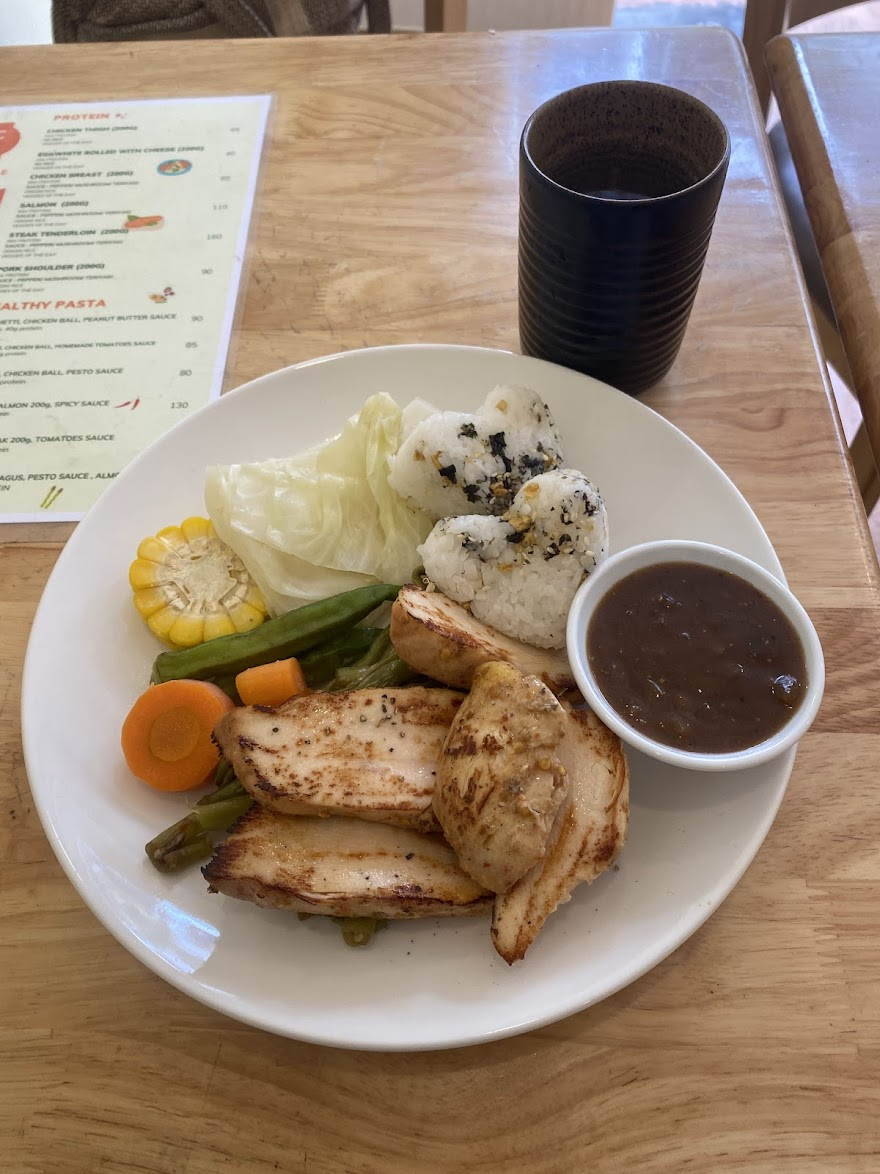
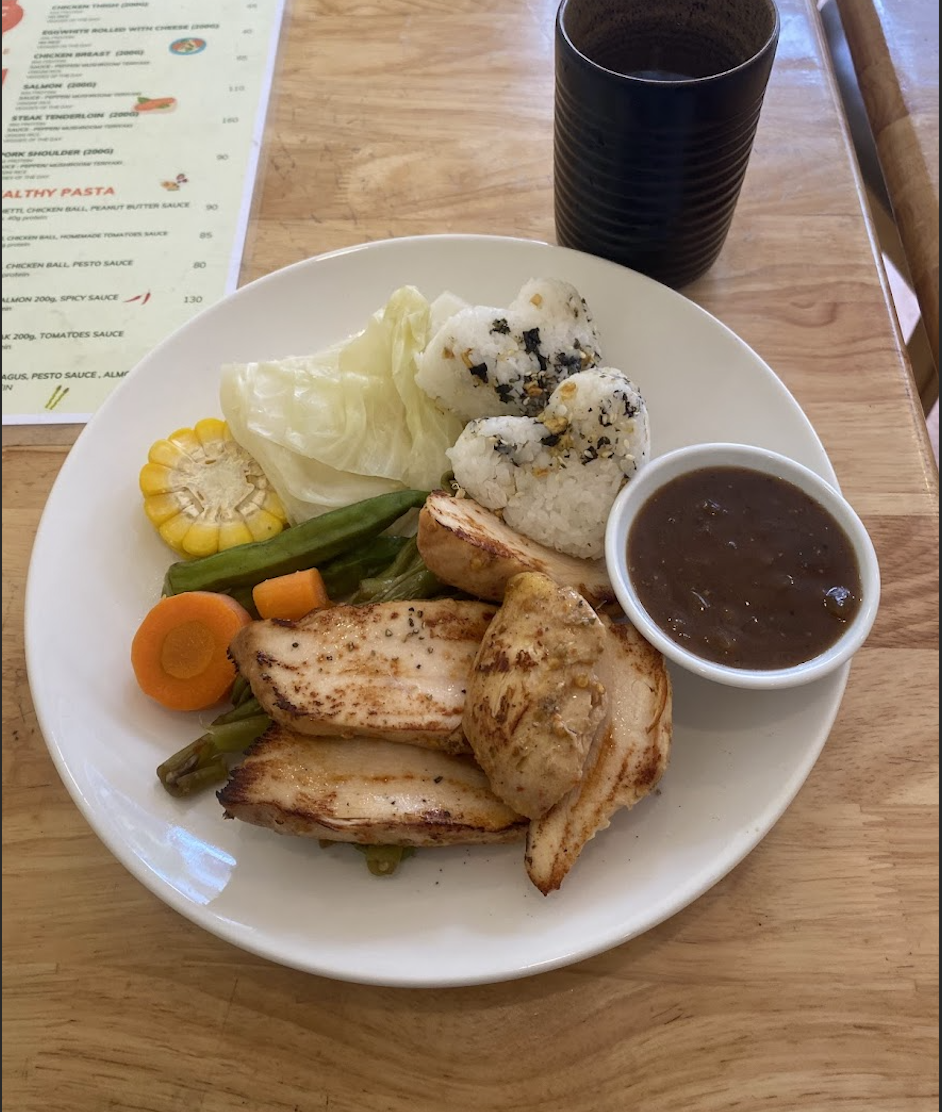
Fix mobile language switcher visibility + update images
Language switcher was hidden on mobile and only appeared at a fixed
bottom position when the nav was open — completely undiscoverable.
Now always visible in the header next to the hamburger button,
with compact button sizing (7px padding, 0.68rem font).

Also: update food1.jpg, add 1pasta.jpg + pastapesto.jpg, remove food2.jpg.

diff --git a/index.html b/index.html
@@ -76,7 +76,8 @@
             <p class="hero-eyebrow" data-i18n="hero.eyebrow">Đà Lạt · Vietnam</p>
             <h1 class="hero-tagline" data-i18n="hero.tagline">BUILD YOUR MUSCLE</h1>
             <p class="hero-subtitle" data-i18n="hero.subtitle">Healthy, High Protein Meals in Đà Lạt</p>
-            <p class="hero-description" data-i18n="hero.description">Premium protein-focused cuisine for fitness enthusiasts and health-conscious
+            <p class="hero-description" data-i18n="hero.description">Premium protein-focused cuisine for fitness
+              enthusiasts and health-conscious
               individuals</p>
             <div class="hero-actions">
               <button type="button" class="btn btn-primary" id="heroCtaBtn" data-i18n="hero.cta">Order Now</button>
@@ -105,7 +106,8 @@
         <header class="section-header reveal">
           <span class="section-tag">Muscle B</span>
           <h2 class="section-title" data-i18n="about.title">Why Choose Muscle B?</h2>
-          <p class="section-subtitle about-subtitle" data-i18n="about.description">We're Đà Lạt's top choice for healthy, high-protein meals.</p>
+          <p class="section-subtitle about-subtitle" data-i18n="about.description">We're Đà Lạt's top choice for
+            healthy, high-protein meals.</p>
         </header>
         <div class="features-grid">
 
@@ -214,11 +216,9 @@
         </header>
         <div class="menu-lang-tabs reveal" role="tablist">
           <button type="button" class="menu-lang-btn active" data-menu-lang="en" role="tab" aria-selected="true"
-            aria-controls="menuPagesPanel" id="menuLangTabEn"
-            data-i18n="menuFull.english">English</button>
+            aria-controls="menuPagesPanel" id="menuLangTabEn" data-i18n="menuFull.english">English</button>
           <button type="button" class="menu-lang-btn" data-menu-lang="vi" role="tab" aria-selected="false"
-            aria-controls="menuPagesPanel" id="menuLangTabVi"
-            data-i18n="menuFull.vietnamese">Tiếng Việt</button>
+            aria-controls="menuPagesPanel" id="menuLangTabVi" data-i18n="menuFull.vietnamese">Tiếng Việt</button>
         </div>
         <div class="menu-pages reveal" id="menuPagesPanel" role="tabpanel" aria-labelledby="menuLangTabEn">
           <button type="button" class="menu-page-btn" data-menu-en="images/menu1English.jpg"
@@ -257,16 +257,16 @@
         </header>
         <div class="gallery-bento reveal">
           <figure class="gallery-item gallery-item--large">
-            <img src="images/food1.jpg" alt="Grilled chicken with rice" loading="lazy">
+            <img src="images/1pasta.jpg" alt="Grilled chicken with rice" loading="lazy">
           </figure>
           <figure class="gallery-item">
-            <img src="images/food2.jpg" alt="Protein bowl" loading="lazy">
+            <img src="images/food1.jpg" alt="Protein bowl" loading="lazy">
           </figure>
           <figure class="gallery-item gallery-item--tall">
             <img src="images/pancakes.jpg" alt="Protein pancakes" loading="lazy">
           </figure>
           <figure class="gallery-item">
-            <img src="images/pasta.jpg" alt="Healthy pasta" loading="lazy">
+            <img src="images/pastapesto.jpg" alt="Healthy pasta" loading="lazy">
           </figure>
           <figure class="gallery-item gallery-item--wide">
             <img src="images/yogurt.jpg" alt="Yogurt bowl" loading="lazy">
@@ -352,7 +352,8 @@
       <span class="dev-credit__sep">·</span>
       <a href="tel:+50689268481">+506 8926 8481</a>
       <span class="dev-credit__sep">·</span>
-      <a href="https://mail.google.com/mail/?view=cm&to=silvi.casfer@gmail.com&su=Business%20Website%20Inquiry&body=Hello%20Silvia%2C%0A%0AI%20wish%20to%20create%20my%20business%20website..." target="_blank" rel="noopener" class="dev-credit__cta">Contact me →</a>
+      <a href="https://mail.google.com/mail/?view=cm&to=silvi.casfer@gmail.com&su=Business%20Website%20Inquiry&body=Hello%20Silvia%2C%0A%0AI%20wish%20to%20create%20my%20business%20website..."
+        target="_blank" rel="noopener" class="dev-credit__cta">Contact me →</a>
     </div>
   </footer>
 

diff --git a/styles.css b/styles.css
@@ -1085,14 +1085,15 @@ button { font-family: inherit; cursor: pointer; border: none; background: none; 
     pointer-events: auto;
   }
 
-  .lang-switch { display: none; }
-
-  .nav-open .lang-switch {
+  .lang-switch {
     display: flex;
-    position: fixed;
-    bottom: 90px;
-    right: var(--spacing-md);
-    z-index: 1001;
+    gap: 2px;
+    padding: 3px;
+  }
+
+  .lang-btn {
+    padding: 4px 7px;
+    font-size: 0.68rem;
   }
 
   /* Hero */
